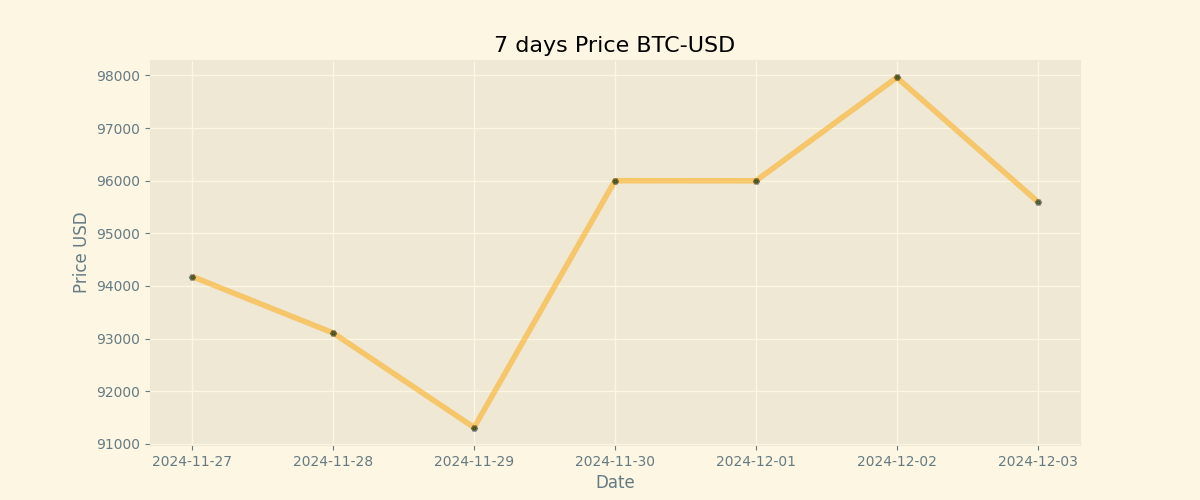
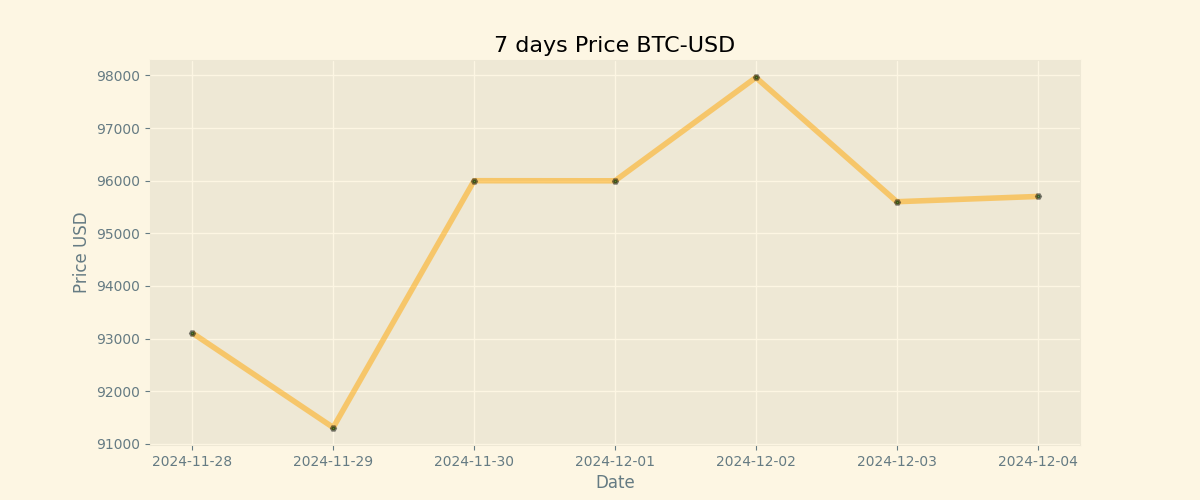
Duty Updates 2024-12-04

diff --git a/README.md b/README.md
@@ -9,8 +9,8 @@
 
 | Currency | Price           |
 | -------- | --------------- |
-| **BTC**  | **$ 95600.0** |
-| **ETH**  | **$ 3703.66** |
+| **BTC**  | **$ 95700.0** |
+| **ETH**  | **$ 3520.0** |
 
 ## BTC chart
 
